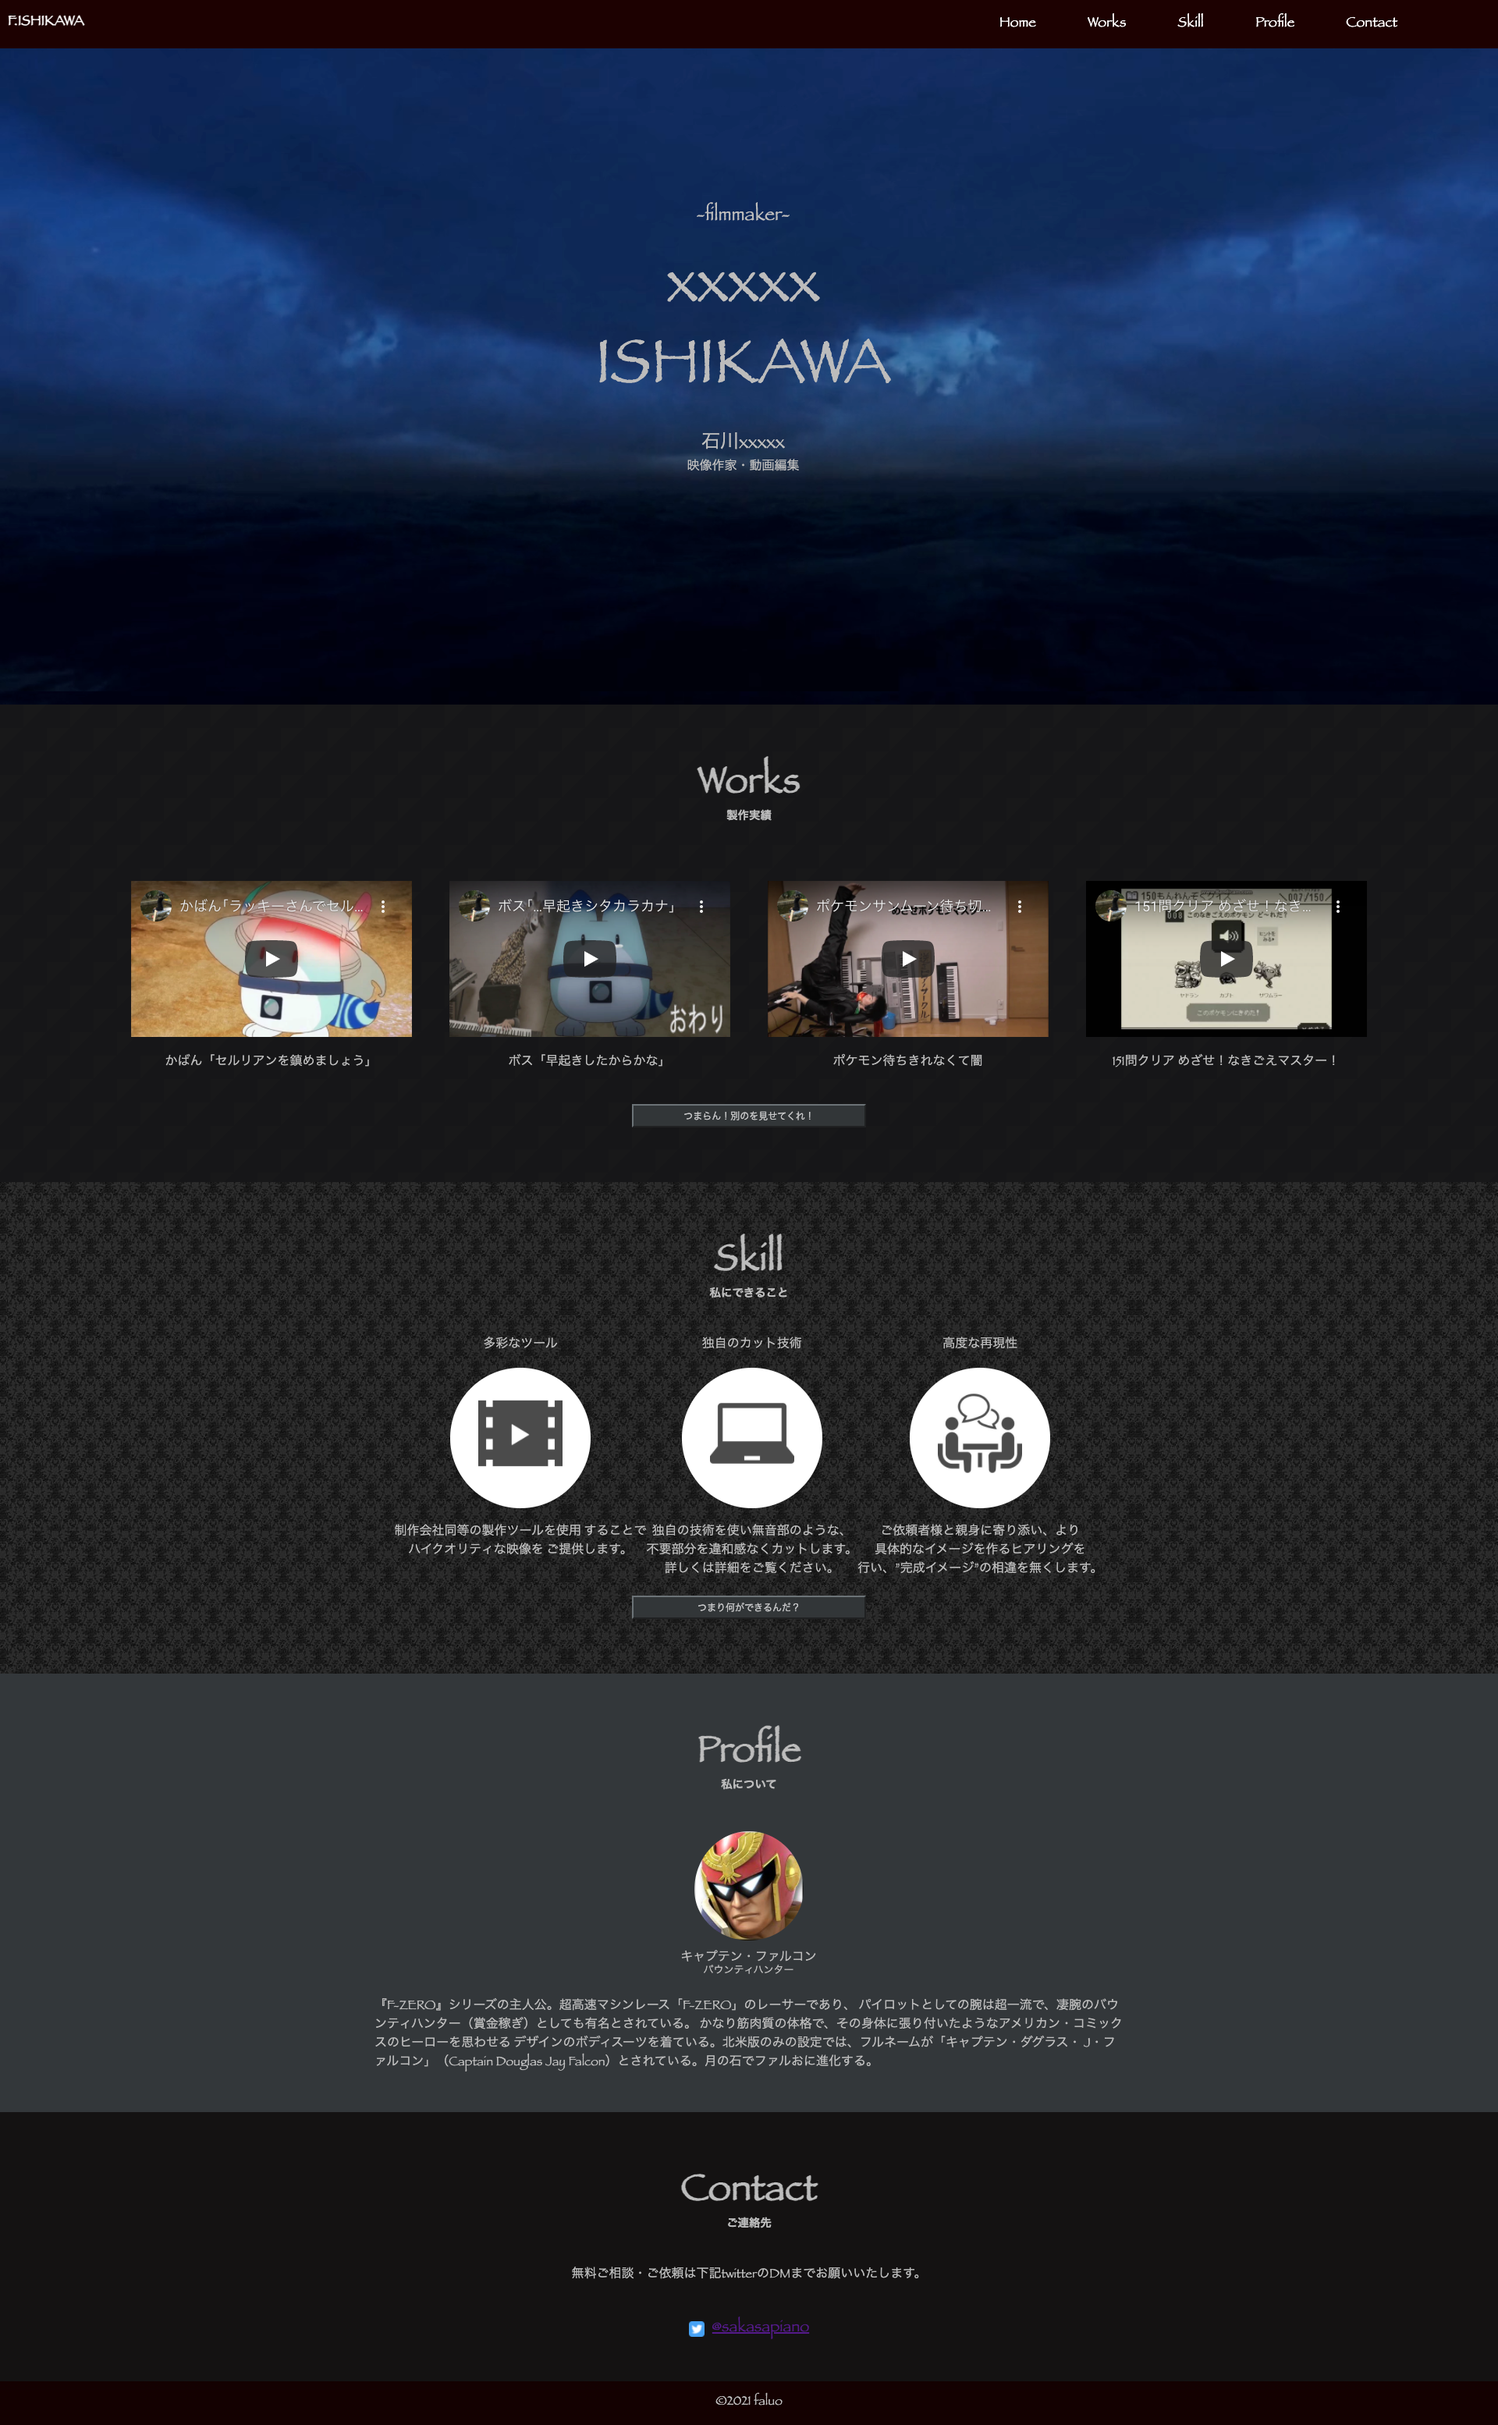
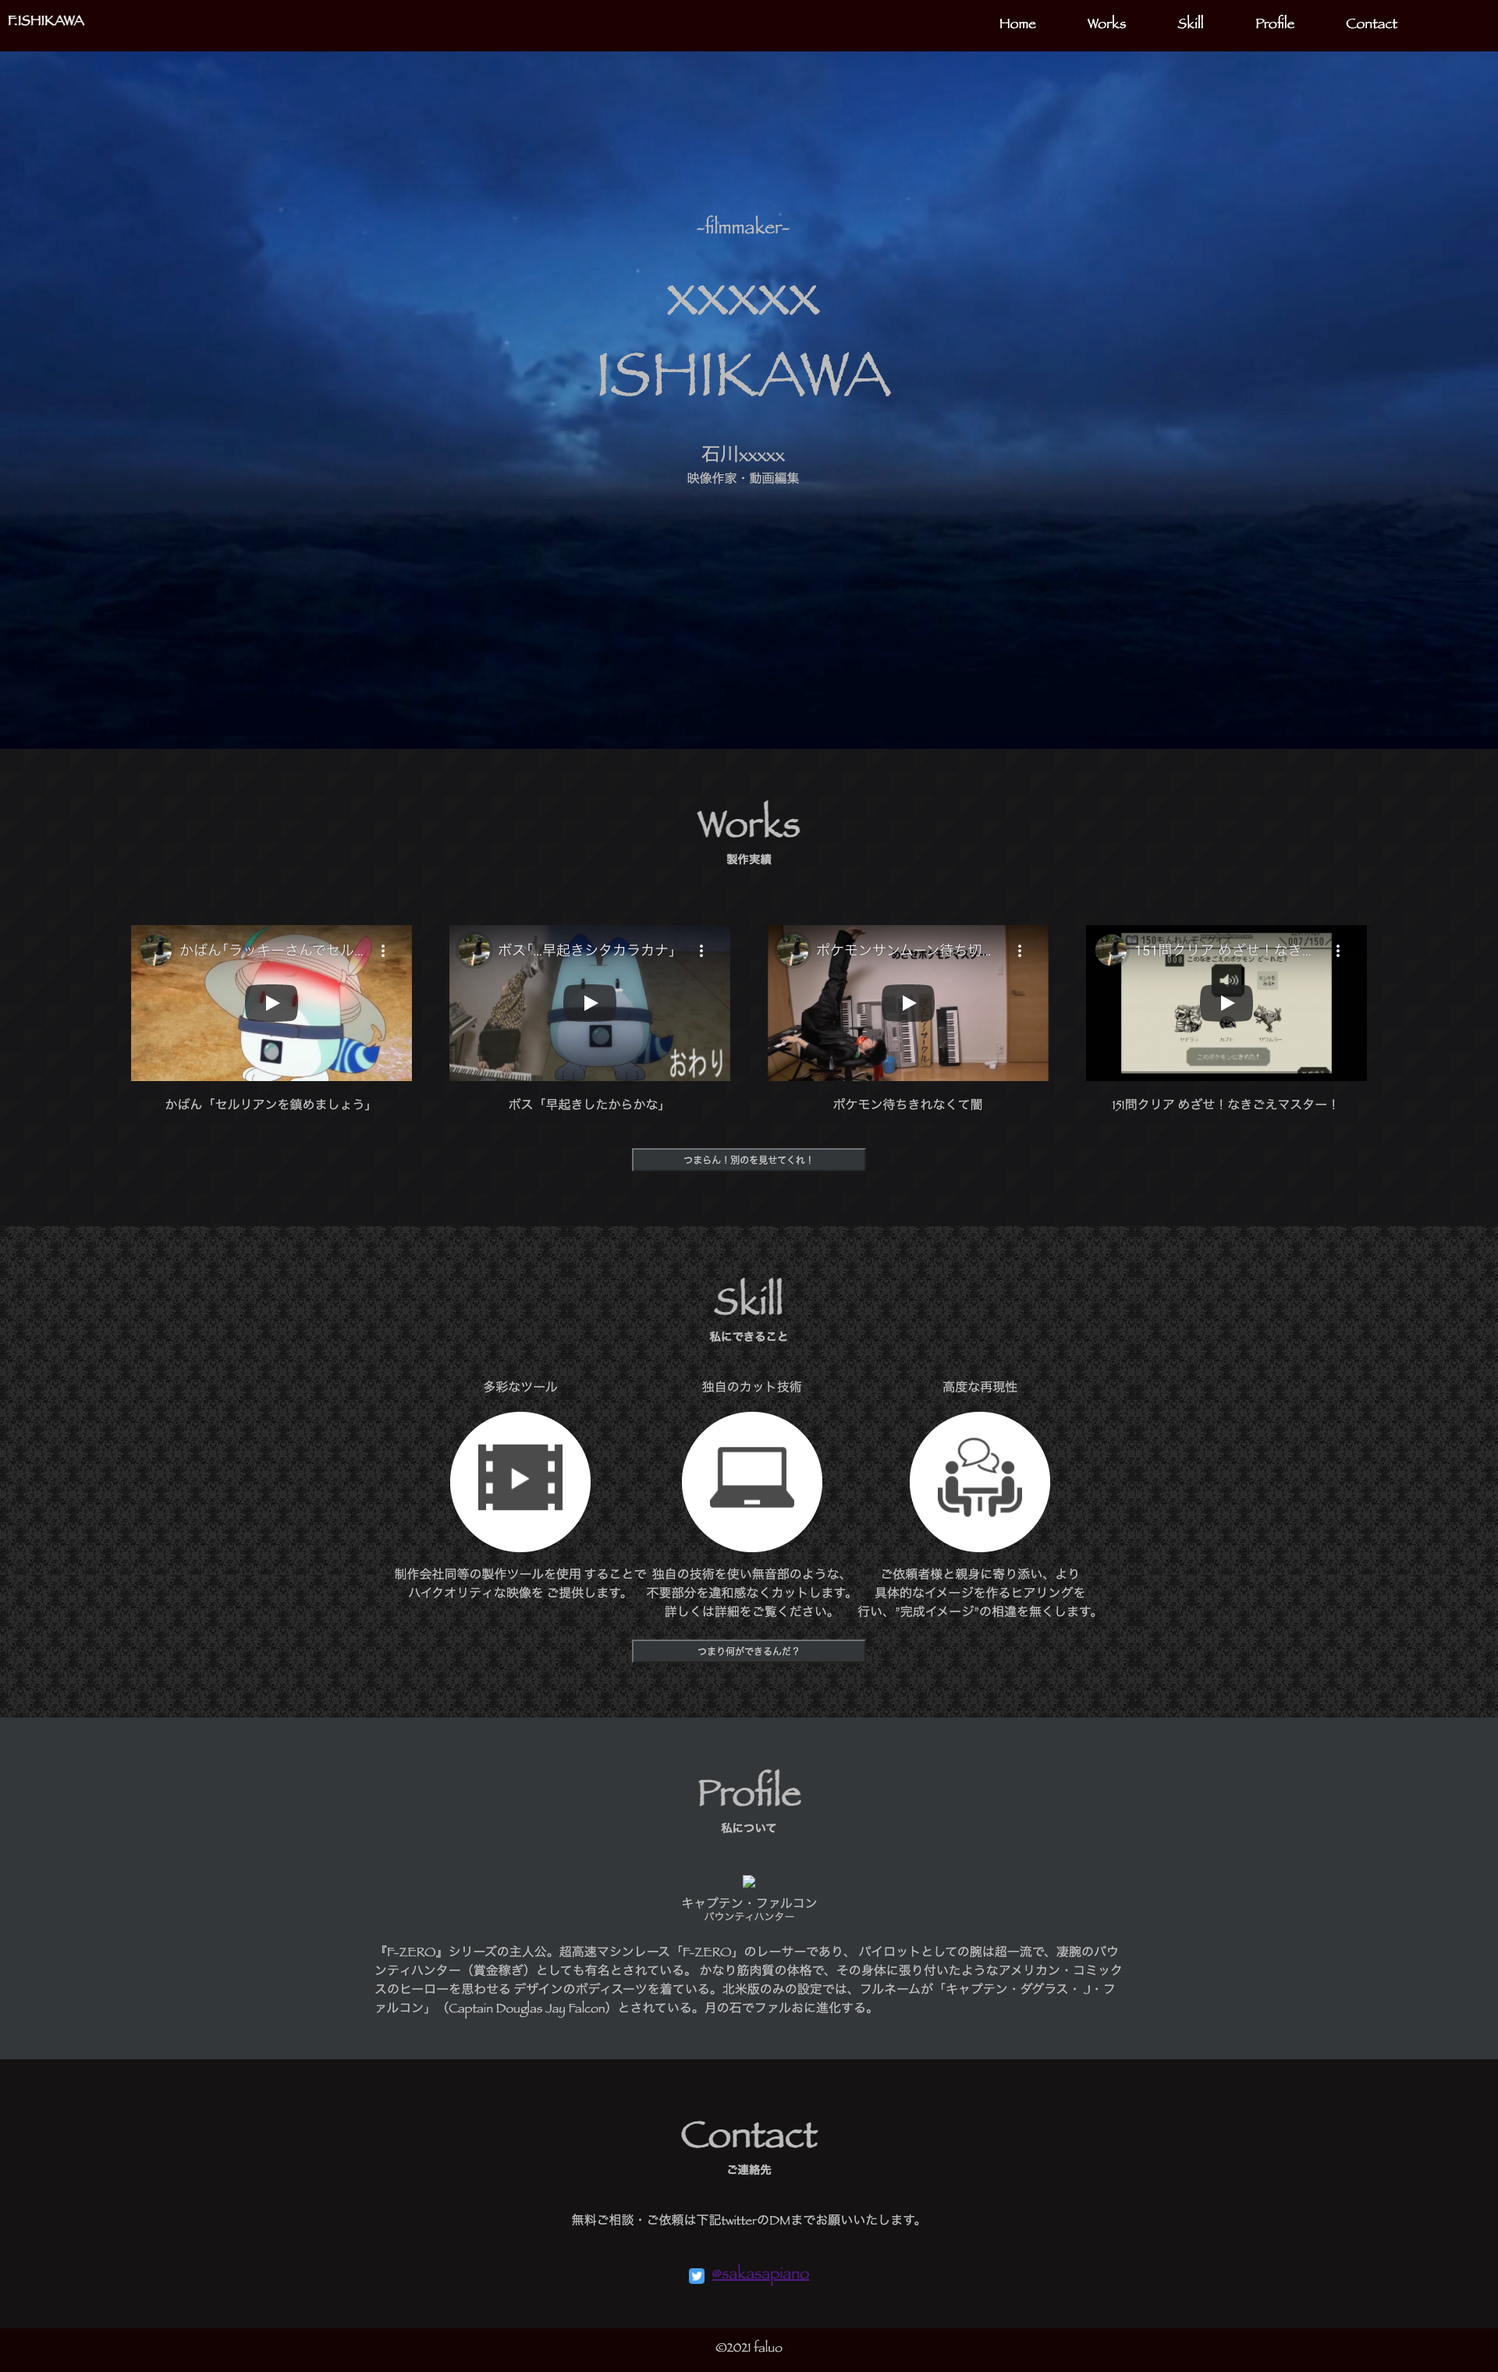
Add files via upload

Changed region(s): [[0.0, 0.3124, 1.0, 0.9684], [0.0, 0.0, 1.0, 0.2499]]

diff --git a/index.html b/index.html
@@ -90,20 +90,21 @@
             </div>
             <!-- message -->
             <div class="message huwaRight">
-              <p><span>ゆず（本名：杉村英治）</span></p>
+              <p><span>自己紹介</span></p>
+              
               <br>
-              <p>愛知県在住</p>
+              初めまして！ゆずと申します。
+              <br>
               <br>
               <p>〜職歴・これまでにやってきたこと〜</p>
               <br>
               <p>
-                大手ドラッグストアにて店長としてマネジメント業務　▶　その後WEB制作会社に店舗導入型スマホアプリの販売営業　▶　現在、大手自動車業界会社事務　▶　WEB制作に興味を持つ　▶　WEBサイトを実際に作り、制作の楽しさ、奥深さを知り、WEB制作活動開始　▶　「同期会」主催、もくもく会主催、朝活を実施し、生活環境を一転し学習　▶　WEBマーケター、WEB制作を中心に活動中
+                大手ドラッグストアにて店長としてマネジメント業務　▶　その後WEB制作会社に店舗導入型スマホアプリの販売営業　▶　現在、大手自動車業界会社事務　▶　WEB制作に興味を持つ　▶　WEBサイトを実際に作り、制作の楽しさ、奥深さを知り、WEB制作活動開始　▶　「同期会」主催、もくもく会主催、朝活を実施し、生活環境を一転し学習　▶　マーケティングを取り込んだWEB制作を中心に活動中
               </p>
               <br>
               <p>
-                初めまして！ゆずと申します。<br>
-                WEB制作にてクライアント様及びその先のエンドユーザー様にもご満足頂けるようなサービスに常に尽力しております。
-                今までに培った接客・営業スキルを生かした迅速・丁寧対応に加え、大手自動車会社で養った問題解決能力でお客様の問題解決・改善にお力添え出来ればと思います。
+                愛知県に住んでおります。WEB制作にてクライアント様及びその先のエンドユーザー様にもご満足頂けるようなサービスに常に尽力しております。
+                今までに培った接客・営業スキルを生かした迅速・丁寧対応に加え、大手自動車業界で養った問題解決能力でお客様の問題解決・改善にお力添え出来ればと思います。
             </div>
           </div>
           <!-- ここまでメッセージ -->
@@ -118,7 +119,7 @@
             <br>
               <img src="img/nouki.jpg" alt="">
               
-              <div class="housin-sent">
+              <div class="housin-sent huwaRight">
                 <div class="housin-title-PC">
                 <p><span>1.　納期を必ず守ります</span></p>
                 <br>
@@ -135,12 +136,12 @@
             <br>
           </div>
             <img src="img/uriage.jpg" alt="">
-            <div class="housin-sent">
+            <div class="housin-sent huwaRight">
               <div class="housin-title-PC">
                 <p><span>2.　売り上げを目的としたWeb制作</span></p>
                 <br>
               </div>
-            <p>当たり前ですがWEBサイトは見た目だけよければいいというものではありません。集客を行い、売上につなげることを本来目的としていますので、最終目的から逆算した設計にてクライアント様の目標達成に貢献致します。</p>
+            <p>当たり前ですがWEBサイトは見た目だけよければいいというものではありません。集客を行い、売上につなげることを本来目的としていますので、最終目的から逆算した設計にてクライアント様の目標達成に貢献致します。制作して終わりではなく、制作後のマーティングまでサポートさせて頂ければと思います。</p>
             <br>
           </div>
         </div>
@@ -150,7 +151,7 @@
             <br>
           </div>
             <img src="img/hinsitu.jpg" alt="">
-            <div class="housin-sent">
+            <div class="housin-sent huwaRight">
               <div class="housin-title-PC">
                 <p><span>3.　要求品質の達成</span></p>
                 <br>
@@ -167,7 +168,7 @@
             <br>
           </div>
             <img src="img/comu.jpg" alt="">
-            <div class="housin-sent">
+            <div class="housin-sent huwaRight">
               <div class="housin-title-PC">
                 <p><span>4.　密なコミュニケーション</span></p>
                 <br>
@@ -181,7 +182,7 @@
             <br>
           </div>
             <img src="img/cost.jpg" alt="">
-            <div class="housin-sent">
+            <div class="housin-sent huwaRight">
               <div class="housin-title-PC">
                 <p><span>5.　要求コストの達成 </span></p>
                 <br>
@@ -208,7 +209,7 @@
             <div class="works-content">
 
               <div class="img-box huwa">
-                <a href="img/yuzusite.png" data-lightbox="group"><img src="img/yuzusamune.png" width="300"></a>
+                <a href="img/yuzu.png" data-lightbox="group"><img src="img/yuzusamune.png" width="300"></a>
                 <p><span>ゆずのポートフォリオサイト</span></p>
                 <p class="works-text">HTML / CSS / Javascript /<br>
                   レスポンシブ対応 </p>
@@ -224,9 +225,9 @@
                 ※依頼者様希望により一部変更してます</p>
               </div>
               <div class="img-box delay3">
-                <a href="img/3.jpg" data-lightbox="group"><img src="img/3.jpg" width="300"></a>
-                <p><span>タイトルタイトルタイトル</span></p>
-                <p class="works-text">HTML / CSS / Javascript / WordPress</p>
+                <a href="img/works-1.png" data-lightbox="group"><img src="img/works1-head.png" width="300"></a>
+                <p><span>極楽亭</span></p>
+                <p class="works-text">HTML / CSS / Javascript / WordPress<br>レスポンシブ対応</p>
                 <p>架空サイト</p>
               </div>
             </div>
@@ -246,10 +247,9 @@
               <img src="img/code.jpeg" alt="">
               <p>【　LP制作:￥10.000～/1P　,コード修正:￥5.000～/1P　】<br>
                 <br>
-                納期目安：〜2週間<br>
+                納期目安：2週間~<br>
                 <br>
                 コーポレートサイト、LPなどの全体コーディング及び修正を行います。<br>
-                HTML, CSS, Javascript, phpにて対応可能です。
                 (レスポンシブ対応可)<br>
                 <br>
                 
@@ -262,7 +262,7 @@
               <p>
               【　WordPress移行:￥100.000～　WordPress制作:￥200.000～　】<br>
               <br>
-              納品目安　〜2週間<br>
+              納品目安　2週間~<br>
               <br>
               WordPressサイト構築<br>
               <br>
@@ -273,7 +273,7 @@
               <p>【デザイン込み：LP制作:￥30.000～/1P ,コーポレートサイト制作:￥150.000〜　】
             <br>
               <br>
-              納期目安：〜3週間
+              納期目安：3週間~
               <br>
               ご要望に沿ったデザインを的確に把握するために丁寧なヒアリングを行い作成いたします。<br>
               <br>
@@ -325,9 +325,9 @@
         <h2>Contact</h2>
         <h3>ご相談・ご依頼</h3>
         <p class="contact-text">
-          無料ご相談・ご質問・ご依頼は下記twitterのDM、またはお問い合わせフォームにてお願いいたします。
+          無料ご相談・ご質問・ご依頼は下記twitterのDM、またはお問い合わせフォームにてお願いいたします。<br>
+          （お急ぎの方はツイッターDMへお願い致します）
         </p>
-<a href="contact.html">お問い合わせ</a>
         <div class="contact-content">
           <div class="twitter huwa">
             <a href="https://twitter.com/yuzu_program" target="blank"><img src="img/ツイッターアイコン丸.png"></a>
@@ -360,23 +360,19 @@
   <footer>
     <div class="info"></div>
   </footer>
-
+<!-- スクロールラベルCDN -->
   <script src="https://unpkg.com/scrollreveal/dist/scrollreveal.min.js"></script>
+<!-- JavaScript読み込み -->
   <script src="bbb.js"></script>
-
-  <script>
-    //  ここからふわっと表示用JS
- 
-    //  ここまでふわっと表示用JS
-  </script>
     <!-- ここからページトップ -->
+    <!-- jQueryCDN -->
     <script src="https://code.jquery.com/jquery-3.4.1.min.js" integrity="sha256-CSXorXvZcTkaix6Yvo6HppcZGetbYMGWSFlBw8HfCJo=" crossorigin="anonymous"></script>
-
     <!-- ここまでページトップ -->
-
     <script src="https://rawgit.com/kimmobrunfeldt/progressbar.js/master/dist/progressbar.min.js"></script>
-    <!--自作のJS-->
+    <!--ここからふわJS-->
 <script src="https://coco-factory.jp/ugokuweb/wp-content/themes/ugokuweb/data/4-1-2/js/4-1-2.js"></script>
+    <!--ここまでふわJS-->
+
 </body>
 
 </html>

diff --git a/aaa.css b/aaa.css
@@ -399,11 +399,12 @@ header {
   color: #FFF; 
 }
 .nav-content ul {
+  /* width: 700px; */
   height: 100%;
   display: flex;
   justify-content: space-around;
   padding-top: 1%;
-  margin-left: 70%;
+  
 
   background: rgba(85, 138, 139, 0.521);
 }
@@ -569,12 +570,9 @@ a:hover::after {
 }
 /* -----------------ここからabout------------------*/
 .about-wrapper {
-
   display: flex;
  flex-flow: row wrap;
- 
  /* background: pink; */
-
 }
 .about-img {
   /* background: tomato; */
@@ -598,8 +596,8 @@ a:hover::after {
   line-height: 1.5rem;
 }
 .housin-wrapper {
-  padding-right: 14%;
-  padding-left: 14%;
+  padding-right: 8%;
+  padding-left: 8%;
   margin-top: 30px;
   text-align: left;
 }
@@ -651,6 +649,7 @@ margin-top: 30px;
   margin: 0 auto;
   box-shadow: 2px 2px 20px gray;
  display: block; 
+ height: 140px;
 }
 /* テキストプロパティ */
 .img-box p span{
@@ -907,6 +906,10 @@ main {
     margin: 10px 20px;
     padding: 5px;
     text-align: center;
+  }
+
+  .img-box img {
+    width: 50%;
   }
 
   /* -----------------RP-service----------------- */

diff --git a/contact.html b/contact.html
@@ -8,11 +8,12 @@
 </head>
 <body>
   <div class="contact">
-  <iframe src="https://docs.google.com/forms/d/e/1FAIpQLSezhE6tpkRSQV8Pv6GetIxVan0CSddmYEzPaHZaPxzmBHHjjQ/viewform?embedded=true" width="600" height="1800" frameborder="0" marginheight="0" marginwidth="0">読み込んでいます…</iframe>
-</div>
-<div class="home">
+  <iframe src="https://docs.google.com/forms/d/e/1FAIpQLSezhE6tpkRSQV8Pv6GetIxVan0CSddmYEzPaHZaPxzmBHHjjQ/viewform?embedded=true" width="600" height="600" frameborder="0" marginheight="0" marginwidth="0">読み込んでいます…</iframe>
+  <div class="home">
   <a href="index.html">ホームへ戻る</a>
 </div>
+</div>
+
   
 </body>
 </html>

diff --git a/contact.css b/contact.css
@@ -1,11 +1,4 @@
 .contact {
-  width: 100%;
-  text-align: center;
-}
-iframe {
-  width: 100%;
-}
-
-.home {
+  height: 90vh;
   text-align: center;
 }
